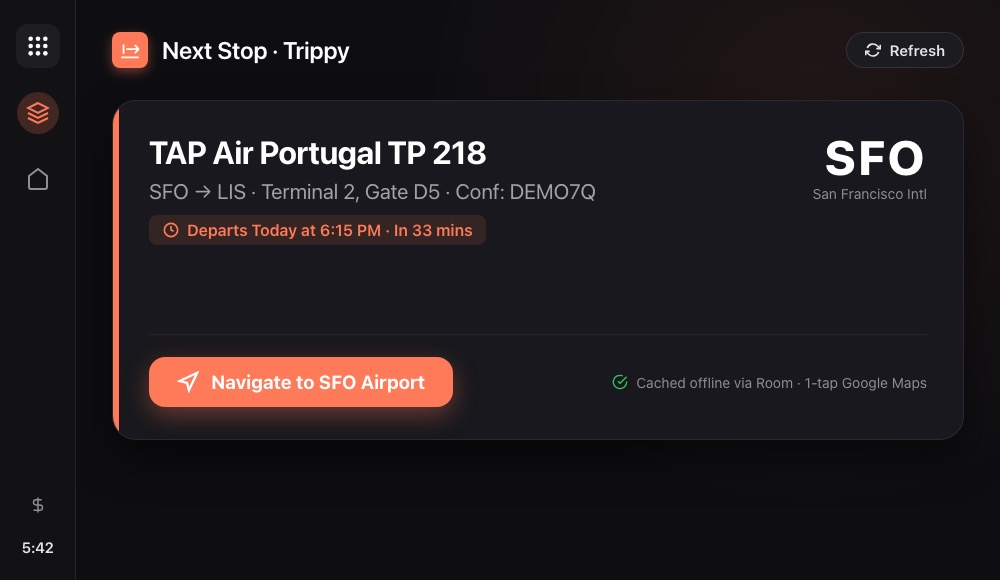
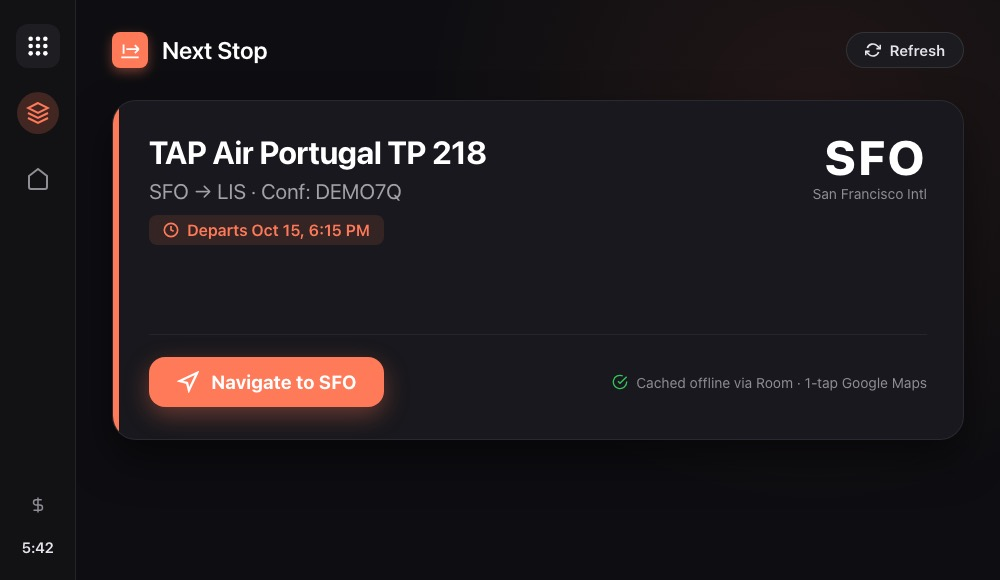
Site: polish Android Auto copy and head-unit mockup to exact NextStop spec

diff --git a/site/index.html b/site/index.html
@@ -86,7 +86,7 @@
       <li class="card reveal"><span class="ico"><svg viewBox="0 0 24 24"><path d="M6 19a2 2 0 100-.01M18 7a2 2 0 100-.01M6 17V9a4 4 0 014-4h6M18 9v6a4 4 0 01-4 4H8"/></svg></span><h3>Journeys</h3><p>Link several trips, like Lisbon → Madrid, into one route and map.</p></li>
       <li class="card reveal"><span class="ico"><svg viewBox="0 0 24 24"><path d="M12 3v18M17 7H9.5a3 3 0 000 6h5a3 3 0 010 6H6"/></svg></span><h3>Split expenses</h3><p>Add travelers, split equally, by amount, percentage or shares, and settle up.</p></li>
       <li class="card reveal"><span class="ico"><svg viewBox="0 0 24 24"><path d="M4 5a2 2 0 012-2h12a2 2 0 012 2v14a2 2 0 01-2 2H6a2 2 0 01-2-2zM8 15l3-3 2 2 3-4M8 7h8"/></svg></span><h3>Stories &amp; share cards</h3><p>Trip stories, a year-in-travel recap and cards you can save as images.</p></li>
-      <li class="card reveal"><span class="ico"><svg viewBox="0 0 24 24"><path d="M18.92 6.01C18.72 5.42 18.16 5 17.5 5h-11c-.66 0-1.21.42-1.42 1.01L3 12v8c0 .55.45 1 1 1h1c.55 0 1-.45 1-1v-1h12v1c0 .55.45 1 1 1h1c.55 0 1-.45 1-1v-8l-2.08-5.99zM6.5 16c-.83 0-1.5-.67-1.5-1.5S5.67 13 6.5 13s1.5.67 1.5 1.5S7.33 16 6.5 16zm11 0c-.83 0-1.5-.67-1.5-1.5s.67-1.5 1.5-1.5 1.5.67 1.5 1.5-.67 1.5-1.5 1.5zM5 11l1.5-4.5h11L19 11H5z"/></svg></span><h3>Android Auto</h3><p>Departure countdown, terminal/gate and 1-tap navigation to airport, hotel or rental from your dash.</p></li>
+      <li class="card reveal"><span class="ico"><svg viewBox="0 0 24 24"><path d="M18.92 6.01C18.72 5.42 18.16 5 17.5 5h-11c-.66 0-1.21.42-1.42 1.01L3 12v8c0 .55.45 1 1 1h1c.55 0 1-.45 1-1v-1h12v1c0 .55.45 1 1 1h1c.55 0 1-.45 1-1v-8l-2.08-5.99zM6.5 16c-.83 0-1.5-.67-1.5-1.5S5.67 13 6.5 13s1.5.67 1.5 1.5S7.33 16 6.5 16zm11 0c-.83 0-1.5-.67-1.5-1.5s.67-1.5 1.5-1.5 1.5.67 1.5 1.5-.67 1.5-1.5 1.5zM5 11l1.5-4.5h11L19 11H5z"/></svg></span><h3>Android Auto</h3><p>Next flight, hotel or rental with departure time and 1-tap Google Maps navigation right from your car display.</p></li>
       <li class="card reveal"><span class="ico"><svg viewBox="0 0 24 24"><path d="M11 18a7 7 0 100-14 7 7 0 000 14zM21 21l-5-5"/></svg></span><h3>Offline &amp; search</h3><p>Fast offline caching with 3s connect timeout. Search across trips, flights and stays.</p></li>
       <li class="card reveal"><span class="ico"><svg viewBox="0 0 24 24"><path d="M3 6h18v12H3zM3 7l9 6 9-6"/></svg></span><h3>Email-in <small>optional</small></h3><p>Forward a confirmation and Trippy files it. <a href="#import">How import works →</a></p></li>
       <li class="card reveal"><span class="ico"><svg viewBox="0 0 24 24"><path d="M12 13a1 1 0 100-.01M8.5 9.5a5 5 0 000 7M15.5 9.5a5 5 0 010 7M5.5 6.5a9 9 0 000 13M18.5 6.5a9 9 0 010 13"/></svg></span><h3>Live status <small>optional</small></h3><p>Bring your own AeroDataBox, Aviationstack or FlightAware AeroAPI key.</p></li>
@@ -201,9 +201,9 @@
     <div>
       <p class="eyebrow reveal">Android &amp; Android Auto</p>
       <h2 id="android-title" class="reveal">The same trips, on Android and in the car.</h2>
-      <p class="muted reveal">Built with Jetpack Compose and Material 3, with fast offline caching (3s connect timeout) and query-preserving search. In your car, Trippy for Android Auto puts your upcoming flight, hotel, or rental on the dashboard with departure countdowns and 1-tap Google Maps navigation.</p>
+      <p class="muted reveal">Built with Jetpack Compose and Material 3, with fast offline caching (3s connect timeout) and query-preserving search. In your car, Trippy for Android Auto puts your upcoming flight, hotel, or rental on the dashboard with departure times and 1-tap Google Maps navigation.</p>
       <div class="cta reveal">
-        <a class="btn btn-primary" href="https://github.com/sakethramanujam/trippy-android/releases/latest">Download Android (v0.3.0)</a>
+        <a class="btn btn-primary" href="https://github.com/sakethramanujam/trippy-android/releases/latest">Download Android</a>
         <a class="btn btn-ghost" href="https://github.com/sakethramanujam/trippy-android">Source</a>
       </div>
     </div>
@@ -215,14 +215,14 @@
     </div>
   </div>
 
-  <div class="wrap" style="margin-top: 52px;">
+  <div class="wrap car-wrap">
     <div class="car-display reveal">
       <picture>
         <source srcset="assets/shots/android-auto-headunit.webp" type="image/webp">
         <img src="assets/shots/android-auto-headunit.jpg" width="1000" height="580" alt="Trippy on Android Auto showing next flight TAP Air Portugal TP 218 with one-tap navigation to SFO Airport" loading="lazy" decoding="async">
       </picture>
     </div>
-    <p class="muted reveal" style="text-align: center; margin-top: 16px; font-weight: 600; font-size: 14.5px;">Android Auto &middot; Next Stop screen with offline Room cache &middot; 1-tap navigation in Google Maps</p>
+    <p class="muted reveal car-caption">Android Auto &middot; Next Stop screen with offline Room cache &middot; 1-tap navigation in Google Maps</p>
   </div>
 </section>
 

diff --git a/site/styles.css b/site/styles.css
@@ -230,6 +230,8 @@ code{font-family:var(--mono);font-size:.9em;background:rgba(255,255,255,.06);pad
 .footer a,.muted a,.step p a{text-decoration:underline;text-underline-offset:3px;text-decoration-color:rgba(255,154,126,.5)}
 
 /* car display */
+.car-wrap{margin-top:52px}
 .car-display{position:relative;border-radius:28px;padding:10px;background:linear-gradient(160deg,#3a3a40,#1b1b1f 40%,#2a2a2f);box-shadow:0 35px 70px -25px rgba(0,0,0,.85),0 0 0 1px rgba(255,255,255,.08) inset;max-width:760px;margin:36px auto 0}
 .car-display img{border-radius:18px;width:100%;height:auto;display:block;aspect-ratio:1000/580;object-fit:cover;background:#0e0e11}
+.car-caption{text-align:center;margin-top:16px;font-weight:600;font-size:14.5px}
 
